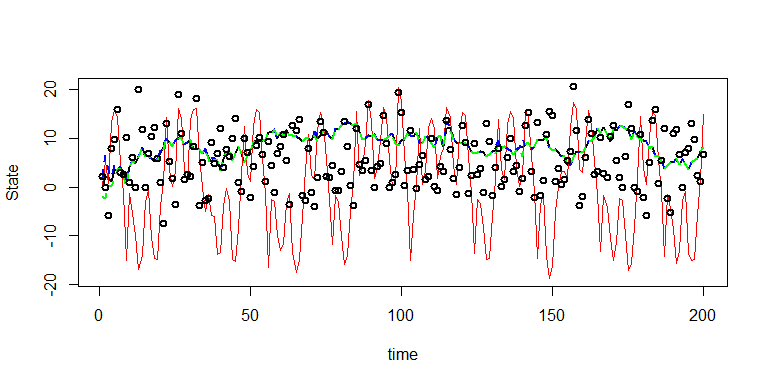
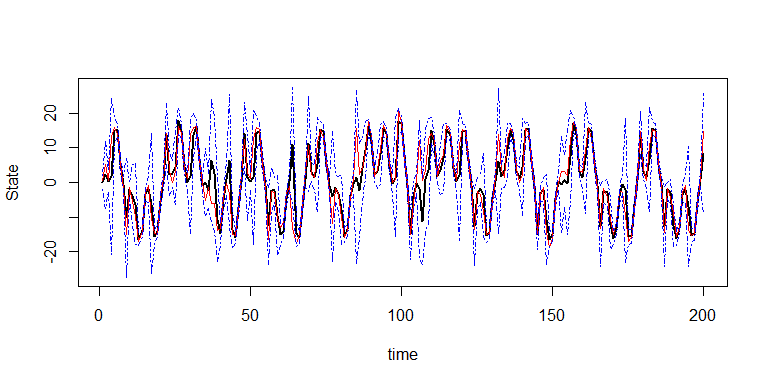
updated readme

diff --git a/README.md b/README.md
@@ -59,19 +59,19 @@ plot(sim.theta[1:199],sim.theta[2:200],type="p",pch=19,xlab=TeX("State,$\\theta_
 ![](README_files/figure-gfm/simulate-1.png)<!-- -->
 
 The first plot shows the variation of observations \(y_t\) with state
-\(\theta_t\) and the second one plots \(\theta_t\) versus
-\(\theta_{t-1}\).
+\(\theta_t\) and the second one plots \(`\theta_t`\) versus
+\(`\theta_{t-1}`\).
 
 The first goal is to find the probability density functions
-\(p(\theta_t^{(m)}|\theta_{(t-1)}^{(m)})\) and
-\(p(y_t|\theta_{(t)}^{(m)})\). From the state evolution equation, with
-evolution error \(w_t\) following a Gaussian distribution \(N(0,w)\), we
-can evaluate the density functions to be a Gaussian distribution
-\(N\big(a\theta_{t}^2,v\big)\) and
-\(N\bigg(b\theta^{(m)}_{t-1}+c\dfrac{\theta^{(m)}_{t-1}}{1+\theta_{t-1}^{(m)2}}+d\cos(\omega t),w\bigg)\).
+\(`p(\theta_t^{(m)}|\theta_{(t-1)}^{(m)})`\) and
+\(`p(y_t|\theta_{(t)}^{(m)})`\). From the state evolution equation, with
+evolution error \(`w_t`\) following a Gaussian distribution
+\(`N(0,w)`\), we can evaluate the density functions to be a Gaussian
+distribution \(`N\big(a\theta_{t}^2,v\big)`\) and
+\(`N\bigg(b\theta^{(m)}_{t-1}+c\dfrac{\theta^{(m)}_{t-1}}{1+\theta_{t-1}^{(m)2}}+d\cos(\omega t),w\bigg)`\).
 The importance density
-\(g_t(\theta_t^{(m)}|\theta_{0:(t-1)}^{(m)},y_{1:t})\) is considered to
-be Gaussian distribution \(N(\theta_{t-1},w)\).
+\(`g_t(\theta_t^{(m)}|\theta_{0:(t-1)}^{(m)},y_{1:t})`\) is considered
+to be Gaussian distribution \(`N(\theta_{t-1},w)`\).
 
 ``` r
 #####################################################################
@@ -93,7 +93,7 @@ imp.sampling <- function(M,y,t,theta.previous,weight.prev)
   weight.current <- rep(NA,M)
   for(m in 1:M)
   {
-    theta.current[m] <- rnorm(1,mean=theta.previous[m],sd=sqrt(w))
+    theta.current[m] <- rnorm(1,mean=mu.theta(theta.previous[m],t),sd=sqrt(w))
     num1 <- dnorm(y[t],mu.y(theta.current[m]),sqrt(v))
     num2 <- dnorm(theta.current[m],mu.theta(theta.previous[m],t),sqrt(w))
     den <- dnorm(theta.current[m],mean=theta.previous[m],sd=sqrt(w))
@@ -147,14 +147,26 @@ ul = max(c(max(theta.mean+2*sqrt(theta.var)),max(sim.theta),sim.y))
 plot(theta.mean,type="l",xlab="time",ylab="State",ylim=c(ll,ul),
      lwd=2)
 lines(sim.theta,col="red")
-lines(theta.mean+1.96*sqrt(theta.var),lty=2,lwd=2,col="blue")
-lines(theta.mean-1.96*sqrt(theta.var),lty=2,lwd=2,col="green")
-points(sim.y,lwd=2)
+lines(theta.mean+1.96*sqrt(theta.var),lty=4,lwd=0.5,col="blue")
+lines(theta.mean-1.96*sqrt(theta.var),lty=4,lwd=0.5,col="blue")
 ```
 
 ![](README_files/figure-gfm/estimate-1.png)<!-- -->
 
 ``` r
+#points(sim.y,lwd=2)
+```
+
+We now analyze the auxillary particle filter approach for posterior
+simulation using sequential Monte Carlo. The first
+
+``` r
+##########################################################################
+# Samples M auxillary variables from the set {1,2,...,M}. The probablity #
+# of each index is proportional to w_k*p(y|mu_k) where w_k is the weight #
+# corresponding to the kth sample of previous iteration and mu_k is the  #
+# mean of the distribution of theta_t|theta_{t-1}^{(k)}.
+
 aux.var <- function(M,y,t,theta.previous,weight.previous)
 {
   # Get probablity of auxillary particles
@@ -169,6 +181,9 @@ aux.var <- function(M,y,t,theta.previous,weight.previous)
   # Sample auxillary variable
   return(sample(M,size=M,replace=T,prob=prob))
 }
+
+##########################################################################
+# Performs importance sampling with auxillary particle sampling
 
 imp.sampling.aux <- function(M,y,t,theta.previous,weight.prev,aux.var)
 {
@@ -223,7 +238,7 @@ smc.apf <- function(Tbig,M,y)
 ```
 
 ``` r
-apf.est.theta <- smc.sis(200,3000,sim.y)
+apf.est.theta <- smc.apf(200,3000,sim.y)
 apf.theta.mean <- apf.est.theta$mu
 apf.theta.var <- apf.est.theta$sigma2
 
@@ -233,9 +248,12 @@ ul = max(c(max(apf.theta.mean+2*sqrt(apf.theta.var)),max(sim.theta),sim.y))
 plot(apf.theta.mean,type="l",xlab="time",ylab="State",ylim=c(ll,ul),
      lwd=2)
 lines(sim.theta,col="red")
-lines(apf.theta.mean+1.96*sqrt(apf.theta.var),lty=2,lwd=2,col="blue")
-lines(apf.theta.mean-1.96*sqrt(apf.theta.var),lty=2,lwd=2,col="green")
-points(sim.y,lwd=2)
+lines(apf.theta.mean+1.96*sqrt(apf.theta.var),lty=4,lwd=0.5,col="blue")
+lines(apf.theta.mean-1.96*sqrt(apf.theta.var),lty=4,lwd=0.5,col="blue")
 ```
 
 ![](README_files/figure-gfm/estimate_aux-1.png)<!-- -->
+
+``` r
+#points(sim.y,lwd=2)
+```
